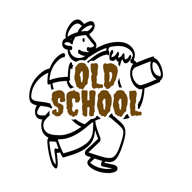
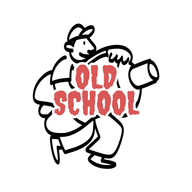
Update Site source

Changed region(s): [[0.125, 0.0938, 0.875, 0.9062]]

diff --git a/public/offline.html b/public/offline.html
@@ -1,1 +1,1 @@
-<!doctype html><html lang="th"><head><meta charset="utf-8"><meta name="viewport" content="width=device-width,initial-scale=1"><meta name="theme-color" content="#64421e"><title>Old School Coffee — ออฟไลน์</title><style>body{margin:0;background:#faf7f0;color:#4c3521;font:16px system-ui,sans-serif;min-height:100vh;display:grid;place-items:center}main{max-width:420px;padding:32px;text-align:center}img{width:96px;border-radius:24px}p{line-height:1.8}button{font:inherit;padding:12px 24px;border:0;border-radius:10px;color:white;background:#64421e}</style></head><body><main><img src="/assets/icon-192.png" alt="Old School Coffee"><h1>ยังไม่มีอินเทอร์เน็ต</h1><p>เชื่อมต่ออินเทอร์เน็ตเพื่อสั่งเครื่องดื่มหรือตรวจสถานะออเดอร์ หากกดสั่งตอนการเชื่อมต่อขัดข้อง กรุณาตรวจ “ออเดอร์ของฉัน” ก่อนส่งใหม่</p><button onclick="location.reload()">ลองเชื่อมต่ออีกครั้ง</button></main></body></html>
+<!doctype html><html lang="th"><head><meta charset="utf-8"><meta name="viewport" content="width=device-width,initial-scale=1"><meta name="theme-color" content="#64421e"><title>Old School Coffee — ออฟไลน์</title><style>body{margin:0;background:#faf7f0;color:#4c3521;font:16px system-ui,sans-serif;min-height:100vh;display:grid;place-items:center}main{max-width:420px;padding:32px;text-align:center}img{width:96px;border-radius:24px}p{line-height:1.8}button{font:inherit;padding:12px 24px;border:0;border-radius:10px;color:white;background:#64421e}</style></head><body><main><img src="/assets/icon-coral-192.png" alt="Old School Coffee"><h1>ยังไม่มีอินเทอร์เน็ต</h1><p>เชื่อมต่ออินเทอร์เน็ตเพื่อสั่งเครื่องดื่มหรือตรวจสถานะออเดอร์ หากกดสั่งตอนการเชื่อมต่อขัดข้อง กรุณาตรวจ “ออเดอร์ของฉัน” ก่อนส่งใหม่</p><button onclick="location.reload()">ลองเชื่อมต่ออีกครั้ง</button></main></body></html>

diff --git a/public/sw.js b/public/sw.js
@@ -1,4 +1,4 @@
-const CACHE = "old-school-pwa-v2";
+const CACHE = "old-school-pwa-v3";
 const SEEN = "old-school-push-seen-v1";
 self.addEventListener("install", (event) =>
   event.waitUntil(
@@ -6,8 +6,8 @@ self.addEventListener("install", (event) =>
       const cache = await caches.open(CACHE);
       await cache.addAll([
         "/offline.html",
-        "/assets/icon-192.png",
-        "/assets/icon-512.png",
+        "/assets/icon-coral-192.png",
+        "/assets/icon-coral-512.png",
       ]);
       await self.skipWaiting();
     })(),
@@ -61,8 +61,8 @@ self.addEventListener("push", (event) => {
       if (marker && (await seen.match(marker))) return;
       await self.registration.showNotification("☕ Old School Coffee", {
         body: payload.body,
-        icon: "/assets/icon-192.png",
-        badge: "/assets/icon-192.png",
+        icon: "/assets/icon-coral-192.png",
+        badge: "/assets/icon-coral-192.png",
         tag: payload.tag || "old-school-status",
         data: payload.data || { url: "/?view=orders" },
         renotify: true,

diff --git a/components/pos/CartItem.tsx b/components/pos/CartItem.tsx
@@ -27,7 +27,7 @@ export default function CartItem({
     <article className="cart-item cart-item-with-photo" aria-label={line.name}>
       <img
         className="cart-item-photo"
-        src={product ? imageFor(product) : "/assets/logo.png"}
+        src={product ? imageFor(product) : "/assets/logo-coral.png"}
         alt={line.name}
       />
       <div className="cart-item-info">

diff --git a/lib/catalog.ts b/lib/catalog.ts
@@ -136,7 +136,7 @@ export const basePrice = (p: Product) =>
   Math.min(...variants(p).map((v) => v.price));
 export function imageFor(p: Product) {
   if (p.image) return p.image;
-  if (p.price != null) return "/assets/logo.png";
+  if (p.price != null) return "/assets/logo-coral.png";
   const c = p.category;
   return c === "กาแฟ"
     ? p.id === "orange-coffee"

diff --git a/app/api/manifest/route.ts b/app/api/manifest/route.ts
@@ -8,12 +8,12 @@ const manifest = {
   theme_color: "#64421e",
   icons: [
     {
-      src: "/assets/icon-192.png",
+      src: "/assets/icon-coral-192.png",
       sizes: "192x192",
       type: "image/png",
     },
     {
-      src: "/assets/icon-512.png",
+      src: "/assets/icon-coral-512.png",
       sizes: "512x512",
       type: "image/png",
     },

diff --git a/app/layout.tsx b/app/layout.tsx
@@ -11,7 +11,7 @@ export const metadata: Metadata = {
     statusBarStyle: "default",
   },
   manifest: "/manifest.webmanifest",
-  icons: { icon: "/assets/logo.png", apple: "/assets/icon-192.png" },
+  icons: { icon: "/assets/logo-coral.png", apple: "/assets/icon-coral-192.png" },
 };
 export const viewport: Viewport = {
   themeColor: "#64421e",

diff --git a/lib/server.ts b/lib/server.ts
@@ -33,7 +33,7 @@ export async function getConfig() {
         categories: categories.slice(1),
         products: initialProducts,
         bankQr: "",
-        logo: "/assets/logo.png",
+        logo: "/assets/logo-coral.png",
         cover: "/assets/hero.jpg",
         accepting: true,
       };

diff --git a/app/page.tsx b/app/page.tsx
@@ -80,7 +80,7 @@ export default function App() {
     products: initialProducts,
     categories: categories.slice(1),
     tables: 12,
-    logo: "/assets/logo.png",
+    logo: "/assets/logo-coral.png",
     cover: "/assets/hero.jpg",
     accepting: true,
   });
